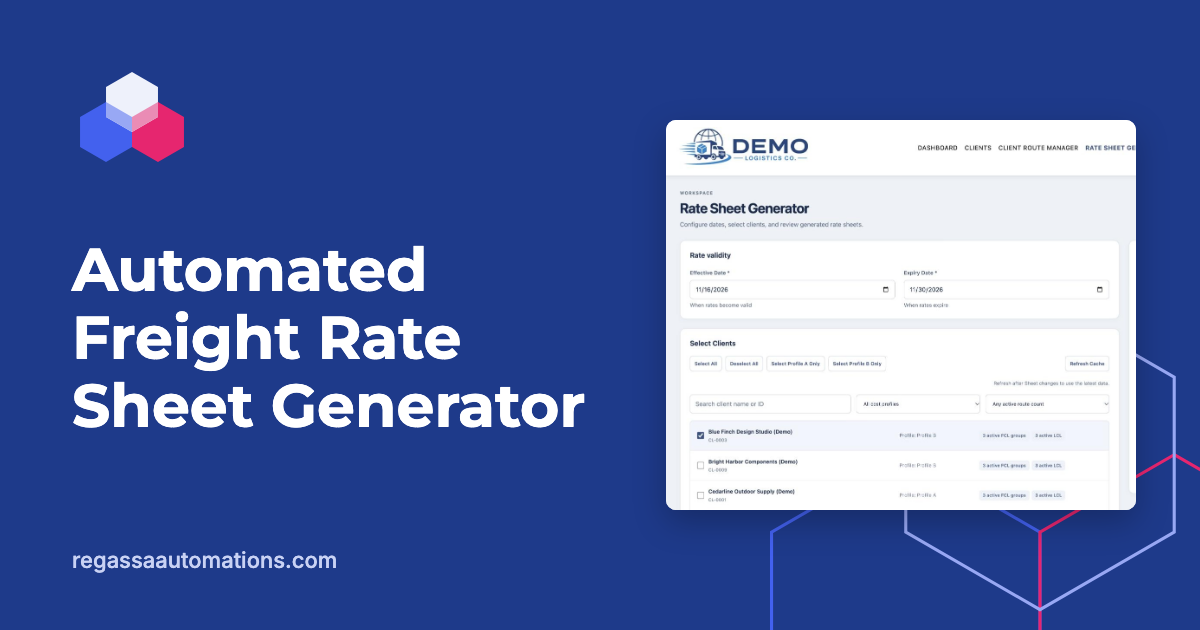
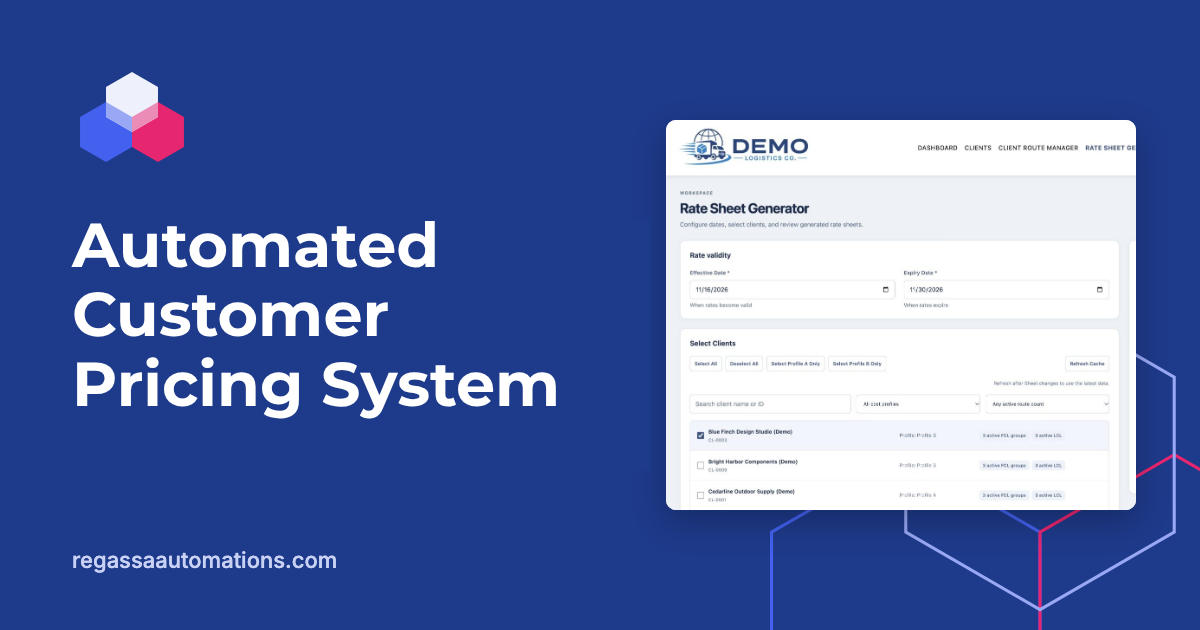
Rename freight case study and highlight walkthroughs at handoff
- Freight project is now 'Automated Customer Pricing System' (title,
  cards, footer, More case studies, meta, video label). The hero line
  explains a rate sheet as each customer's price list; app screenshots
  keep their 'Rate Sheet Generator' labels. og-freight.png regenerated.
  Resolves OI-11. URL unchanged.
- Handoff copy (Home step 04, Services step and FAQ, About step) now
  mentions detailed documentation and a live walkthrough with the team;
  Services adds optional recorded video walkthroughs for complex systems.

Claude-Session: https://claude.ai/code/session_01LtnQGj2BprWmmVNFJi4byo

Changed region(s): [[0.0617, 0.3619, 0.4933, 0.6937]]

diff --git a/src/data/home.ts b/src/data/home.ts
@@ -33,8 +33,7 @@ export const hero = {
   secondary: { label: 'See examples', href: '#work' },
   proof:
     "I've built systems for logistics companies, PR agencies and nonprofit programs. You get a written quote before any build begins.",
-  proofMobile:
-    'You get a written quote before any build begins.',
+  proofMobile: 'You get a written quote before any build begins.',
   hexList: [
     'Tools that run your process',
     'Systems that stay in sync',
@@ -45,8 +44,8 @@ export const hero = {
     alt: 'Client Route Manager table for a fictional customer listing six FCL and LCL routes with origin, destination, routing, container sizes, carrier and match status, including one unmatched route.',
     tag: 'Fictional demo data',
     caption:
-      'Route review screen from the logistics rate-sheet application. Routes, carriers and rates are invented.',
-    captionMobile: 'Logistics rate-sheet demo.',
+      'Route review screen from the customer pricing system. Routes, carriers and rates are invented.',
+    captionMobile: 'Customer pricing system demo.',
   },
 };
 
@@ -54,7 +53,7 @@ export const selectedWork = {
   eyebrow: 'Selected work',
   h2: 'Different industries, the same kinds of problems',
   intro:
-    'The rate-sheet project is a good example of a pattern that shows up in many offices: complicated rules, a person checking the exceptions, and a client-ready document at the end. Fee schedules, quotes and engagement letters follow the same pattern.',
+    'The customer pricing project is a good example of a pattern that shows up in many offices: complicated rules, a person checking the exceptions, and a client-ready document at the end. Fee schedules, quotes and engagement letters follow the same pattern.',
   allLink: { label: 'See all five projects', href: '/work/' },
   cardLinkLine: 'Read the case study',
   /** Per-card media and phone copy; titles, tags and desktop summaries come from projects.yaml. */
@@ -63,9 +62,9 @@ export const selectedWork = {
       // OI-18: sample PDF page 1 placement approved by Ayu, 2026-11-20.
       alt: 'First page of a generated rate sheet for a fictional customer, with validity dates and container prices.',
       summary:
-        "A freight forwarder's client rate sheets are now built from route and cost data, with the pricing rules applied automatically. A person approves every flagged route before the PDF is created.",
+        "A freight forwarder's customer price lists are now built from route and cost data, with the pricing rules applied automatically. A person approves every flagged route before the PDF is created.",
       summaryMobile:
-        'Client rate sheets are built with the pricing rules applied automatically, and a person approves every exception.',
+        'Customer price lists are built with the pricing rules applied automatically, and a person approves every exception.',
     },
     'pr-pipeline-sync': {
       summary:
@@ -123,10 +122,10 @@ export const problems = {
       detail: 'Every version is a chance for a stale number to slip through.',
       links: [
         { label: 'Reports and documents that build themselves', href: '#services' },
-        { label: 'Rate-sheet PDF example', href: '/work/freight-rate-sheet-generator/#sample' },
+        { label: 'Price-list PDF example', href: '/work/freight-rate-sheet-generator/#sample' },
         { label: 'Word reference example', href: '/work/quotes-library/' },
       ],
-      linksMobile: ['Documents', 'Rate-sheet example', null],
+      linksMobile: ['Documents', 'Price-list example', null],
     },
     {
       title: "The weekly report takes most of someone's day.",
@@ -195,7 +194,7 @@ export const services = {
         'Work that stops when one person is out',
         'Exceptions handled from memory',
       ],
-      related: [{ label: 'Logistics rate sheets', href: '/work/freight-rate-sheet-generator/' }],
+      related: [{ label: 'Customer pricing system', href: '/work/freight-rate-sheet-generator/' }],
       rule: 'navy',
     },
     {
@@ -262,8 +261,8 @@ export const approach = {
     {
       num: '04',
       title: 'Document and hand off',
-      text: 'You get written documentation of how it works and how to change it.',
-      textMobile: 'You get written documentation of how to run and change it.',
+      text: 'You get detailed documentation of how it works and how to change it, and a live walkthrough with your team.',
+      textMobile: 'You get detailed documentation and a live walkthrough with your team.',
     },
   ],
   note: 'Scope, deliverables and any ongoing support are agreed in writing for each engagement before work begins.',

diff --git a/src/data/work/freight.ts b/src/data/work/freight.ts
@@ -7,24 +7,24 @@
 import type { Pair, Segment } from '../types';
 
 export const meta = {
-  title: 'Freight Rate Sheet Automation | Regassa Automations',
+  title: 'Automated Customer Pricing System | Regassa Automations',
   description:
-    'See how Regassa Automations built a custom freight application for route matching, customer pricing and PDF rate sheets using Google Sheets and Cloud Run.',
-  ogTitle: 'Automated Freight Rate Sheet Generator',
+    'See how Regassa Automations built a custom pricing application for a freight forwarder: route matching, customer pricing and PDF price lists using Google Sheets and Cloud Run.',
+  ogTitle: 'Automated Customer Pricing System',
   ogDescription:
     'A custom freight workflow connecting spreadsheet data, customer routes, pricing exceptions and PDF generation. Explore the anonymized case study.',
   ogImage: '/og/og-freight.png',
-  ogImageAlt: 'Automated Freight Rate Sheet Generator portfolio project by Regassa Automations',
+  ogImageAlt: 'Automated Customer Pricing System portfolio project by Regassa Automations',
 };
 
 export const hero = {
-  crumb: 'Freight Rate Sheet Generator',
+  crumb: 'Customer Pricing System',
   tags: ['Workflow automation', 'Custom web application', 'Document generation'],
   tagsMobile: ['Workflow automation', 'Document generation'],
-  h1: 'Automated Freight Rate Sheet Generator',
-  lede: "A custom web application that turns spreadsheet rate data, customer routes and pricing rules into branded, customer-ready rate sheets, with a person reviewing every case the rules can't settle.",
+  h1: 'Automated Customer Pricing System',
+  lede: "A custom web application for a freight forwarder that turns spreadsheet rate data, customer routes and pricing rules into branded rate sheets (each customer's price list for their shipping routes), with a person reviewing every case the rules can't settle.",
   ledeMobile:
-    "A custom web application that turns spreadsheet rate data, customer routes and pricing rules into branded rate sheets, with a person reviewing every case the rules can't settle.",
+    "A custom web application for a freight forwarder that turns rate data, customer routes and pricing rules into each customer's price list, with a person reviewing every case the rules can't settle.",
   secondary: {
     label: 'Download a sample rate sheet',
     suffix: 'PDF',
@@ -95,7 +95,7 @@ export const walkthrough = {
   src: '/video/freight-walkthrough.mp4',
   captions: '/video/freight-walkthrough-captions.vtt',
   ariaLabel:
-    'Walkthrough video: Automated Freight Rate Sheet Generator, 2 minutes 42 seconds, with captions',
+    'Walkthrough video: Automated Customer Pricing System, 2 minutes 42 seconds, with captions',
   ariaLabelMobile: 'Walkthrough video, 2 minutes 42 seconds, with captions',
   monoLabel: 'Walkthrough',
   monoLabelMobile: 'Walkthrough · 2:42',

diff --git a/src/data/services.ts b/src/data/services.ts
@@ -61,8 +61,9 @@ export const howItWorks = {
     {
       label: '04 · Included',
       title: 'Handoff',
-      text: 'Written documentation of how the system works and how to change it. Ongoing support is optional and agreed in writing.',
-      textMobile: 'Documentation your team can follow. Support is optional.',
+      text: 'Detailed documentation of how the system works and how to change it, and a live walkthrough with your team. For complex systems, I can also record video walkthroughs to keep on file. Ongoing support is optional.',
+      textMobile:
+        'Detailed documentation and a live walkthrough with your team. Support is optional.',
     },
   ],
 };
@@ -138,7 +139,7 @@ export const pricing = {
       'How many rules and exceptions the process has',
       'How clean and consistent your existing data is',
       'Whether documents or reports need precise formatting',
-      'How much documentation your team needs',
+      'How much documentation and training your team needs',
     ],
   },
   support: {
@@ -188,7 +189,7 @@ export const faq = {
     },
     {
       q: 'Will my team be able to run it without you?',
-      a: 'Yes. Every project ends with written documentation of how the system works and how to change it.',
+      a: "Yes. Every project ends with detailed documentation and a live walkthrough with the people who will use it, so your team isn't depending on me to run it. For complex systems, I can also record video walkthroughs your team can rewatch.",
     },
     {
       q: 'Where does AI fit in?',

diff --git a/src/data/portfolio.ts b/src/data/portfolio.ts
@@ -7,7 +7,7 @@
 export const meta = {
   title: 'Portfolio | Regassa Automations',
   description:
-    'Five workflow automation projects by Regassa Automations: freight rate sheets, a checked electricity data dashboard, PR pipeline sync, a quotes library and volunteer rosters.',
+    'Five workflow automation projects by Regassa Automations: a customer pricing system, a checked electricity data dashboard, PR pipeline sync, a quotes library and volunteer rosters.',
   ogTitle: 'Portfolio: Regassa Automations',
   ogDescription: 'Five workflows, from messy inputs to dependable outputs.',
   ogImage: '/og/og-default.png',
@@ -44,7 +44,8 @@ export const cards: Record<string, CardExtra> = {
     // OI-18: route-table screenshot placement approved by Ayu, 2026-11-20.
     alt: 'Client Route Manager table for a fictional customer listing FCL and LCL routes with container sizes, carrier and match status.',
     caption: 'Fictional routes and sample rates.',
-    problemMobile: 'Rate sheets built by matching routes and applying pricing rules by hand.',
+    problemMobile:
+      'Customer price lists built by matching routes and applying pricing rules by hand.',
     builtMobile: 'Matching, pricing, exception review and PDF generation with a report.',
   },
   gridbloom: {

diff --git a/src/data/privacy.ts b/src/data/privacy.ts
@@ -49,7 +49,7 @@ export const sections: PrivacySection[] = [
     h2: 'Booking a consultation',
     paragraphs: [
       [
-        'The calendar booking links open a booking page run by Google Calendar appointment schedules, part of Google Workspace. When you book, Google collects your name, email address and anything you write in the booking question, and sends you a confirmation and reminders. Google\'s handling of that information is described in the ',
+        "The calendar booking links open a booking page run by Google Calendar appointment schedules, part of Google Workspace. When you book, Google collects your name, email address and anything you write in the booking question, and sends you a confirmation and reminders. Google's handling of that information is described in the ",
         { text: 'Google Privacy Policy', href: 'https://policies.google.com/privacy' },
         '.',
       ],

diff --git a/src/data/about.ts b/src/data/about.ts
@@ -76,8 +76,8 @@ export const approach = {
     {
       label: '04 · Handoff',
       title: 'Document and hand off',
-      text: 'Documentation your team can follow, and support terms agreed for the engagement.',
-      textMobile: 'Documentation your team can follow; support terms agreed.',
+      text: 'Detailed documentation, a live walkthrough with your team, and support terms agreed for the engagement.',
+      textMobile: 'Detailed documentation, a live walkthrough and agreed support terms.',
     },
   ],
 };

diff --git a/tests/home.spec.ts b/tests/home.spec.ts
@@ -60,7 +60,7 @@ const mobileStrings = [
   'Client · Lead intake dashboards',
   'Client, verified Upwork review · Volunteer rosters',
   'Sync · PR pipeline example',
-  'Documents · Rate-sheet example',
+  'Documents · Price-list example',
 ];
 
 /** Desktop-only content that the phone design drops. */
